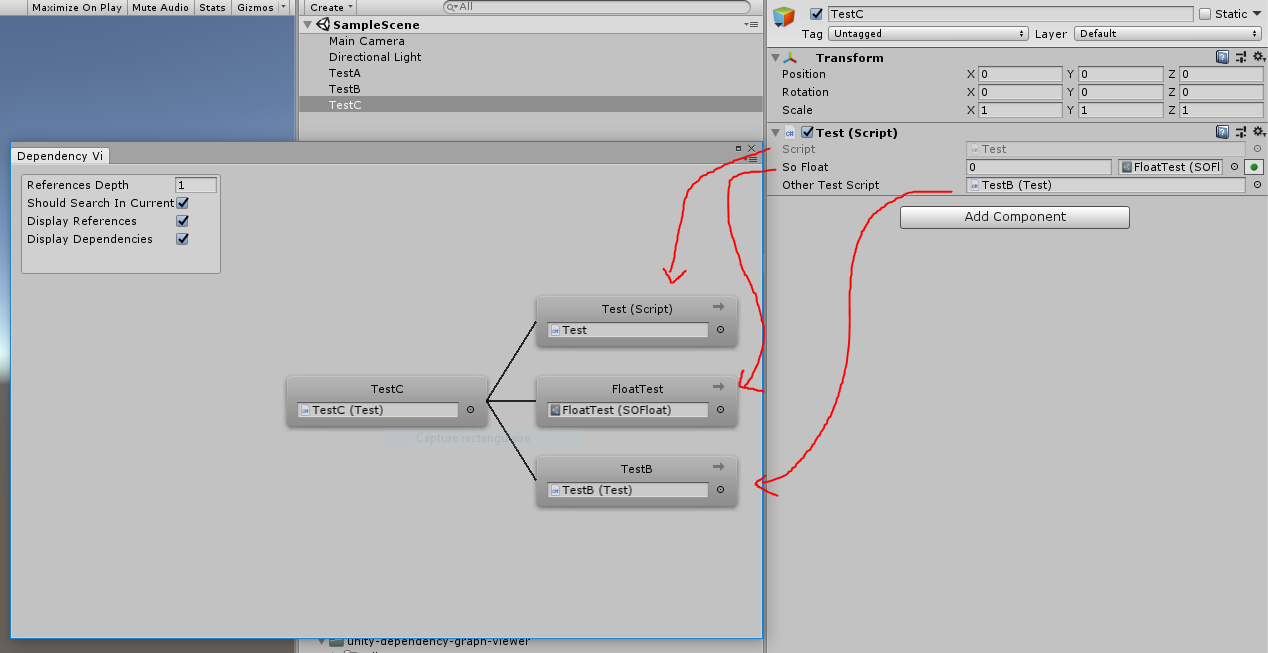
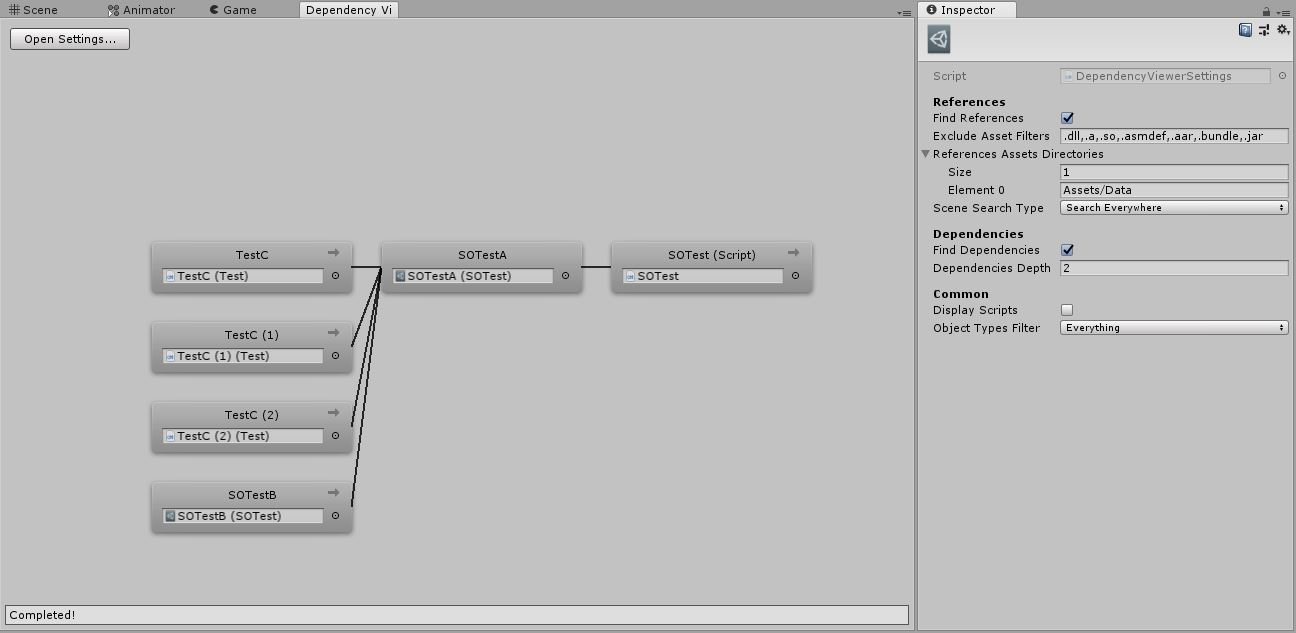
+ All settings are now fully functional. We can filter per object type, search references only in the current scene or everywhere, search references only from a specific directory

Changed region(s): [[0.0, 0.0, 1.0, 1.0], [0.0923, 0.7504, 0.2768, 0.8705]]

diff --git a/Editor/DependencyViewerSettings.cs b/Editor/DependencyViewerSettings.cs
@@ -13,62 +13,30 @@ internal class DependencyViewerSettings : ScriptableObject
     [Flags]
     public enum ObjectType
     {
-        ScriptableObject = 0x01,
-        Everything = 0xFF
+        ScriptableObject    = 0x01,
+        Component           = 0x02,
+        MonoScript          = 0x04,
+        Everything          = 0xFF
     }
 
-
-    //[SerializeField] // Disabled for now because not managed yet
-    private bool _shouldSearchInCurrentScene = true;
-    public bool ShouldSearchInCurrentScene
+    public enum SceneSearchMode
     {
-        get { return _shouldSearchInCurrentScene; }
-        set { _shouldSearchInCurrentScene = value; }
+        NoSearch,
+        SearchOnlyInCurrentScene,
+        SearchEverywhere
     }
 
+
+    [Header("References")]
+    
     [SerializeField]
+    [Tooltip("If checked, the references will be searched")]
     private bool _findReferences = true;
     public bool FindReferences
     {
         get { return _findReferences; }
         set { _findReferences = value; }
     }
-
-    [SerializeField]
-    private bool _findDependencies = true;
-    public bool FindDependencies
-    {
-        get { return _findDependencies; }
-        set { _findDependencies = value; }
-    }
-    
-    [SerializeField]
-    [EnumFlags]
-    private ObjectType _objectTypesFilter = ObjectType.Everything;
-    public ObjectType ObjectTypesFilter
-    {
-        get { return _objectTypesFilter; }
-        set { _objectTypesFilter = value; }
-    }
-
-    [SerializeField]
-    private string _assetsSearchRootDirectory;
-    public string AssetsSearchRootDirectory
-    {
-        get { return _assetsSearchRootDirectory; }
-        set { _assetsSearchRootDirectory = value; }
-    }
-
-    [Header("Dependencies")]
-
-    [SerializeField]
-    private int _dependenciesDepth = 1;
-    public int DependenciesDepth
-    {
-        get { return _dependenciesDepth; }
-        set { _dependenciesDepth = value; }
-    }
-
 
     [SerializeField]
     [Tooltip("Filters when browsing project files for asset referencing")]
@@ -79,15 +47,55 @@ internal class DependencyViewerSettings : ScriptableObject
         set { _excludeAssetFilters = value; }
     }
 
-    [Header("Common")]
+    [SerializeField]
+    [Tooltip("If set, only these directories will be browsed for references. Can really improve search speed.")]
+    private string[] _referencesAssetsDirectories;
+    public string[] ReferencesAssetDirectories
+    {
+        get { return _referencesAssetsDirectories; }
+        set { _referencesAssetsDirectories = value; }
+    }
 
     [SerializeField]
-    [Tooltip("If enabled, the scripts will also be displayed")]
-    private bool _displayScripts = false;
-    public bool DisplayScripts
+    private SceneSearchMode _sceneSearchType = SceneSearchMode.SearchEverywhere;
+    public SceneSearchMode SceneSearchType
     {
-        get { return _displayScripts; }
-        set { _displayScripts = value; }
+        get { return _sceneSearchType; }
+        set { _sceneSearchType = value; }
+    }
+
+
+    [Header("Dependencies")]
+
+    [SerializeField]
+    [Tooltip("If checked, the dependencies will be searched")]
+    private bool _findDependencies = true;
+    public bool FindDependencies
+    {
+        get { return _findDependencies; }
+        set { _findDependencies = value; }
+    }
+
+    [SerializeField]
+    [Tooltip("Defines the depth of the search among the dependencies")]
+    private int _dependenciesDepth = 1;
+    public int DependenciesDepth
+    {
+        get { return _dependenciesDepth; }
+        set { _dependenciesDepth = value; }
+    }
+
+
+    [Header("Common")]
+    
+    [SerializeField]
+    [EnumFlags]
+    [Tooltip("Defines the object types to analyze")]
+    private ObjectType _objectTypesFilter = ObjectType.Everything;
+    public ObjectType ObjectTypesFilter
+    {
+        get { return _objectTypesFilter; }
+        set { _objectTypesFilter = value; }
     }
 
 
@@ -111,6 +119,29 @@ internal class DependencyViewerSettings : ScriptableObject
             var data = EditorPrefs.GetString(DependencyViewerSettingsSaveName);
             EditorJsonUtility.FromJsonOverwrite(data, this);
         }        
+    }
+
+    public bool CanObjectTypeBeIncluded(UnityEngine.Object obj)
+    {
+        if ((ObjectTypesFilter & ObjectType.ScriptableObject) != 0 &&
+            obj is ScriptableObject)
+        {
+            return true;
+        }
+
+        if ((ObjectTypesFilter & ObjectType.Component) != 0 &&
+            obj is Component)
+        {
+            return true;
+        }
+       
+        if ((ObjectTypesFilter & ObjectType.MonoScript) != 0 &&
+            obj is MonoScript)
+        {
+            return true;
+        }
+
+        return false;
     }
 
     void OnValidate()

diff --git a/Editor/DependencyResolver.cs b/Editor/DependencyResolver.cs
@@ -5,6 +5,7 @@ using UnityEngine.SceneManagement;
 using UnityEditor;
 using System;
 using System.Linq;
+using System.IO;
 
 internal class DependencyResolver
 {
@@ -33,7 +34,7 @@ internal class DependencyResolver
             FindDependencies(_graph.RefTargetNode, _settings.DependenciesDepth);
         }
 
-        if (_settings.ShouldSearchInCurrentScene)
+        if (_settings.SceneSearchType != DependencyViewerSettings.SceneSearchMode.NoSearch)
         {
             List<Scene> currentOpenedScenes = DependencyViewerUtility.GetCurrentOpenedScenes();
             if (_settings.FindReferences)
@@ -45,7 +46,8 @@ internal class DependencyResolver
             }
         }
 
-        if (_settings.FindReferences)
+        bool searchOnlyInCurrentScene = (_settings.SceneSearchType == DependencyViewerSettings.SceneSearchMode.SearchOnlyInCurrentScene);
+        if (_settings.FindReferences && !searchOnlyInCurrentScene)
         {
             foreach (var currentOperation in FindReferencesAmongAssets(_graph.RefTargetNode))
             {
@@ -85,7 +87,7 @@ internal class DependencyResolver
                     // Reference found!
                     if (componentSP.propertyType == SerializedPropertyType.ObjectReference && 
                         componentSP.objectReferenceValue == node.TargetObject &&
-                        !IsObjectExludedBySettings(componentSP.objectReferenceValue))
+                        IsObjectAllowedBySettings(component))
                     {
                         DependencyViewerNode referenceNode = new DependencyViewerNode(component);
                         DependencyViewerGraph.CreateNodeLink(referenceNode, node);
@@ -156,7 +158,7 @@ internal class DependencyResolver
                 {
                     if (sp.propertyType == SerializedPropertyType.ObjectReference && 
                         sp.objectReferenceValue == node.TargetObject &&
-                        !IsObjectExludedBySettings(sp.objectReferenceValue))
+                        IsObjectAllowedBySettings(sp.objectReferenceValue))
                     {
                         // Reference found!
                         DependencyViewerNode reference = new DependencyViewerNode(obj);
@@ -186,6 +188,28 @@ internal class DependencyResolver
                 return true;
             }
         }
+
+        if (_settings.ReferencesAssetDirectories != null &&
+            _settings.ReferencesAssetDirectories.Length > 0)
+        {
+            bool isAssetAmongReferencesDirectory = false;
+            string assetFullPath = Path.GetFullPath(assetPath);
+            for (int i = 0; i < _settings.ReferencesAssetDirectories.Length; ++i)
+            {
+                if (Directory.Exists(_settings.ReferencesAssetDirectories[i]))
+                {
+                    string referenceAssetFullPath = Path.GetFullPath(_settings.ReferencesAssetDirectories[i]);
+                    if (assetFullPath.StartsWith(referenceAssetFullPath))
+                    {
+                        isAssetAmongReferencesDirectory = true;
+                        break;
+                    }
+                }
+            }
+
+            return !isAssetAmongReferencesDirectory;
+        }
+
         return false;
     }
 
@@ -201,7 +225,7 @@ internal class DependencyResolver
             {
                 if (sp.propertyType == SerializedPropertyType.ObjectReference && 
                     sp.objectReferenceValue == node.TargetObject &&
-                    !IsObjectExludedBySettings(sp.objectReferenceValue))
+                    IsObjectAllowedBySettings(sp.objectReferenceValue))
                 {
                     // Reference found!
                     DependencyViewerNode reference = new DependencyViewerNode(component);
@@ -236,7 +260,7 @@ internal class DependencyResolver
         {
             if (sp.propertyType == SerializedPropertyType.ObjectReference && 
                 sp.objectReferenceValue != null &&
-                !IsObjectExludedBySettings(sp.objectReferenceValue))
+                IsObjectAllowedBySettings(sp.objectReferenceValue))
             {
                 DependencyViewerNode dependencyNode = new DependencyViewerNode(sp.objectReferenceValue);
                 DependencyViewerGraph.CreateNodeLink(node, dependencyNode);
@@ -249,8 +273,8 @@ internal class DependencyResolver
         }
     }
 
-    private bool IsObjectExludedBySettings(UnityEngine.Object obj)
+    private bool IsObjectAllowedBySettings(UnityEngine.Object obj)
     {
-        return (obj is MonoScript && !_settings.DisplayScripts);
+        return (_settings.CanObjectTypeBeIncluded(obj));
     }
 }

diff --git a/Editor/DependencyViewer.cs b/Editor/DependencyViewer.cs
@@ -28,16 +28,15 @@ public class DependencyViewer : EditorWindow
     private IEnumerator<DependencyViewerOperation> _resolverWorkHandle;
 
     [MenuItem("GameObject/View Dependencies", priority = 10)]
-    private static void ViewReferenceInCurrentSceneFromMenuCommand(MenuCommand menuCommand)
+    private static void ViewReferencesFromMenuCommand(MenuCommand menuCommand)
     {
-        ViewReferenceInCurrentScene();
+        ViewReferences();
     }
 
     [MenuItem("Assets/View Dependencies")]
-    public static void ViewReferenceInCurrentScene()
+    public static void ViewReferences()
     {
         DependencyViewer referenceViewer = EditorWindow.GetWindow<DependencyViewer>("Dependency Viewer");
-        referenceViewer.Settings.ShouldSearchInCurrentScene = true;
         referenceViewer.ViewDependencies(Selection.activeObject);
     }
 
